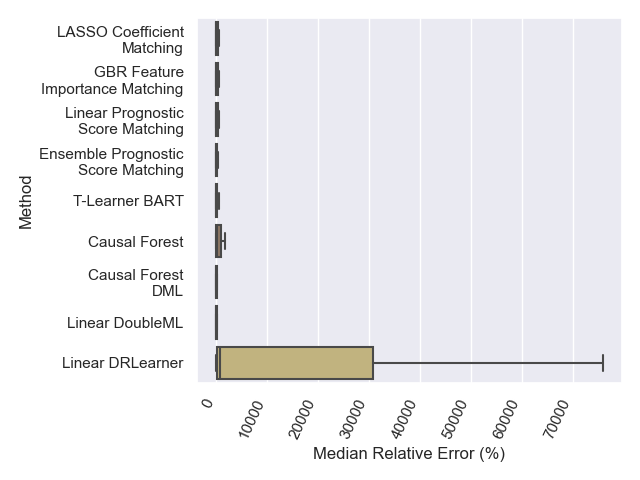
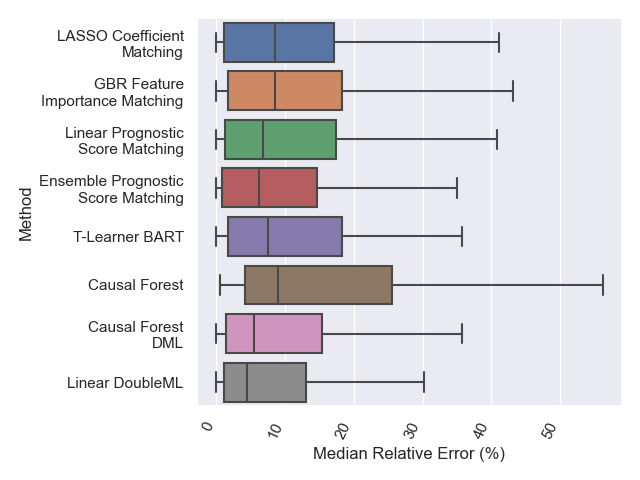
running on acic 2018 and 2019

diff --git a/Experiments/acic_error_and_runtime/cate_error.py b/Experiments/acic_error_and_runtime/cate_error.py
@@ -268,20 +268,20 @@ summarize_warnings(warning_list, method_name)
 print()
 
 
-method_name = 'DRLearner'
-start = time.time()
-with warnings.catch_warnings(record=True) as warning_list:
-    cate_est_drlearner = drlearner.drlearner('Y', 'T', df_dummy_data, gen_skf=split_strategy, random_state=random_state)
-times[method_name] = time.time() - start
-df_err = pd.concat([df_err,
-                    get_errors(cate_est_drlearner[['avg.CATE']],
-                               df_true[['TE']],
-                               method_name=method_name,
-                               scale=scaling_factor)
-                    ])
-print(f'\n{method_name} method complete: {time.time() - start}')
-summarize_warnings(warning_list, method_name)
-print()
+# method_name = 'DRLearner'
+# start = time.time()
+# with warnings.catch_warnings(record=True) as warning_list:
+#     cate_est_drlearner = drlearner.drlearner('Y', 'T', df_dummy_data, gen_skf=split_strategy, random_state=random_state)
+# times[method_name] = time.time() - start
+# df_err = pd.concat([df_err,
+#                     get_errors(cate_est_drlearner[['avg.CATE']],
+#                                df_true[['TE']],
+#                                method_name=method_name,
+#                                scale=scaling_factor)
+#                     ])
+# print(f'\n{method_name} method complete: {time.time() - start}')
+# summarize_warnings(warning_list, method_name)
+# print()
 
 try:
     method_name = 'BART'

diff --git a/Experiments/acic_error_and_runtime/plotting/errors.py b/Experiments/acic_error_and_runtime/plotting/errors.py
@@ -19,7 +19,7 @@ methods = [
     'Linear Prognostic Score Matching',
     'Ensemble Prognostic Score Matching',
     'DoubleML',
-    'DRLearner',
+    # 'DRLearner',
     'BART',
     'Causal Forest',
     'Causal Forest DML'
